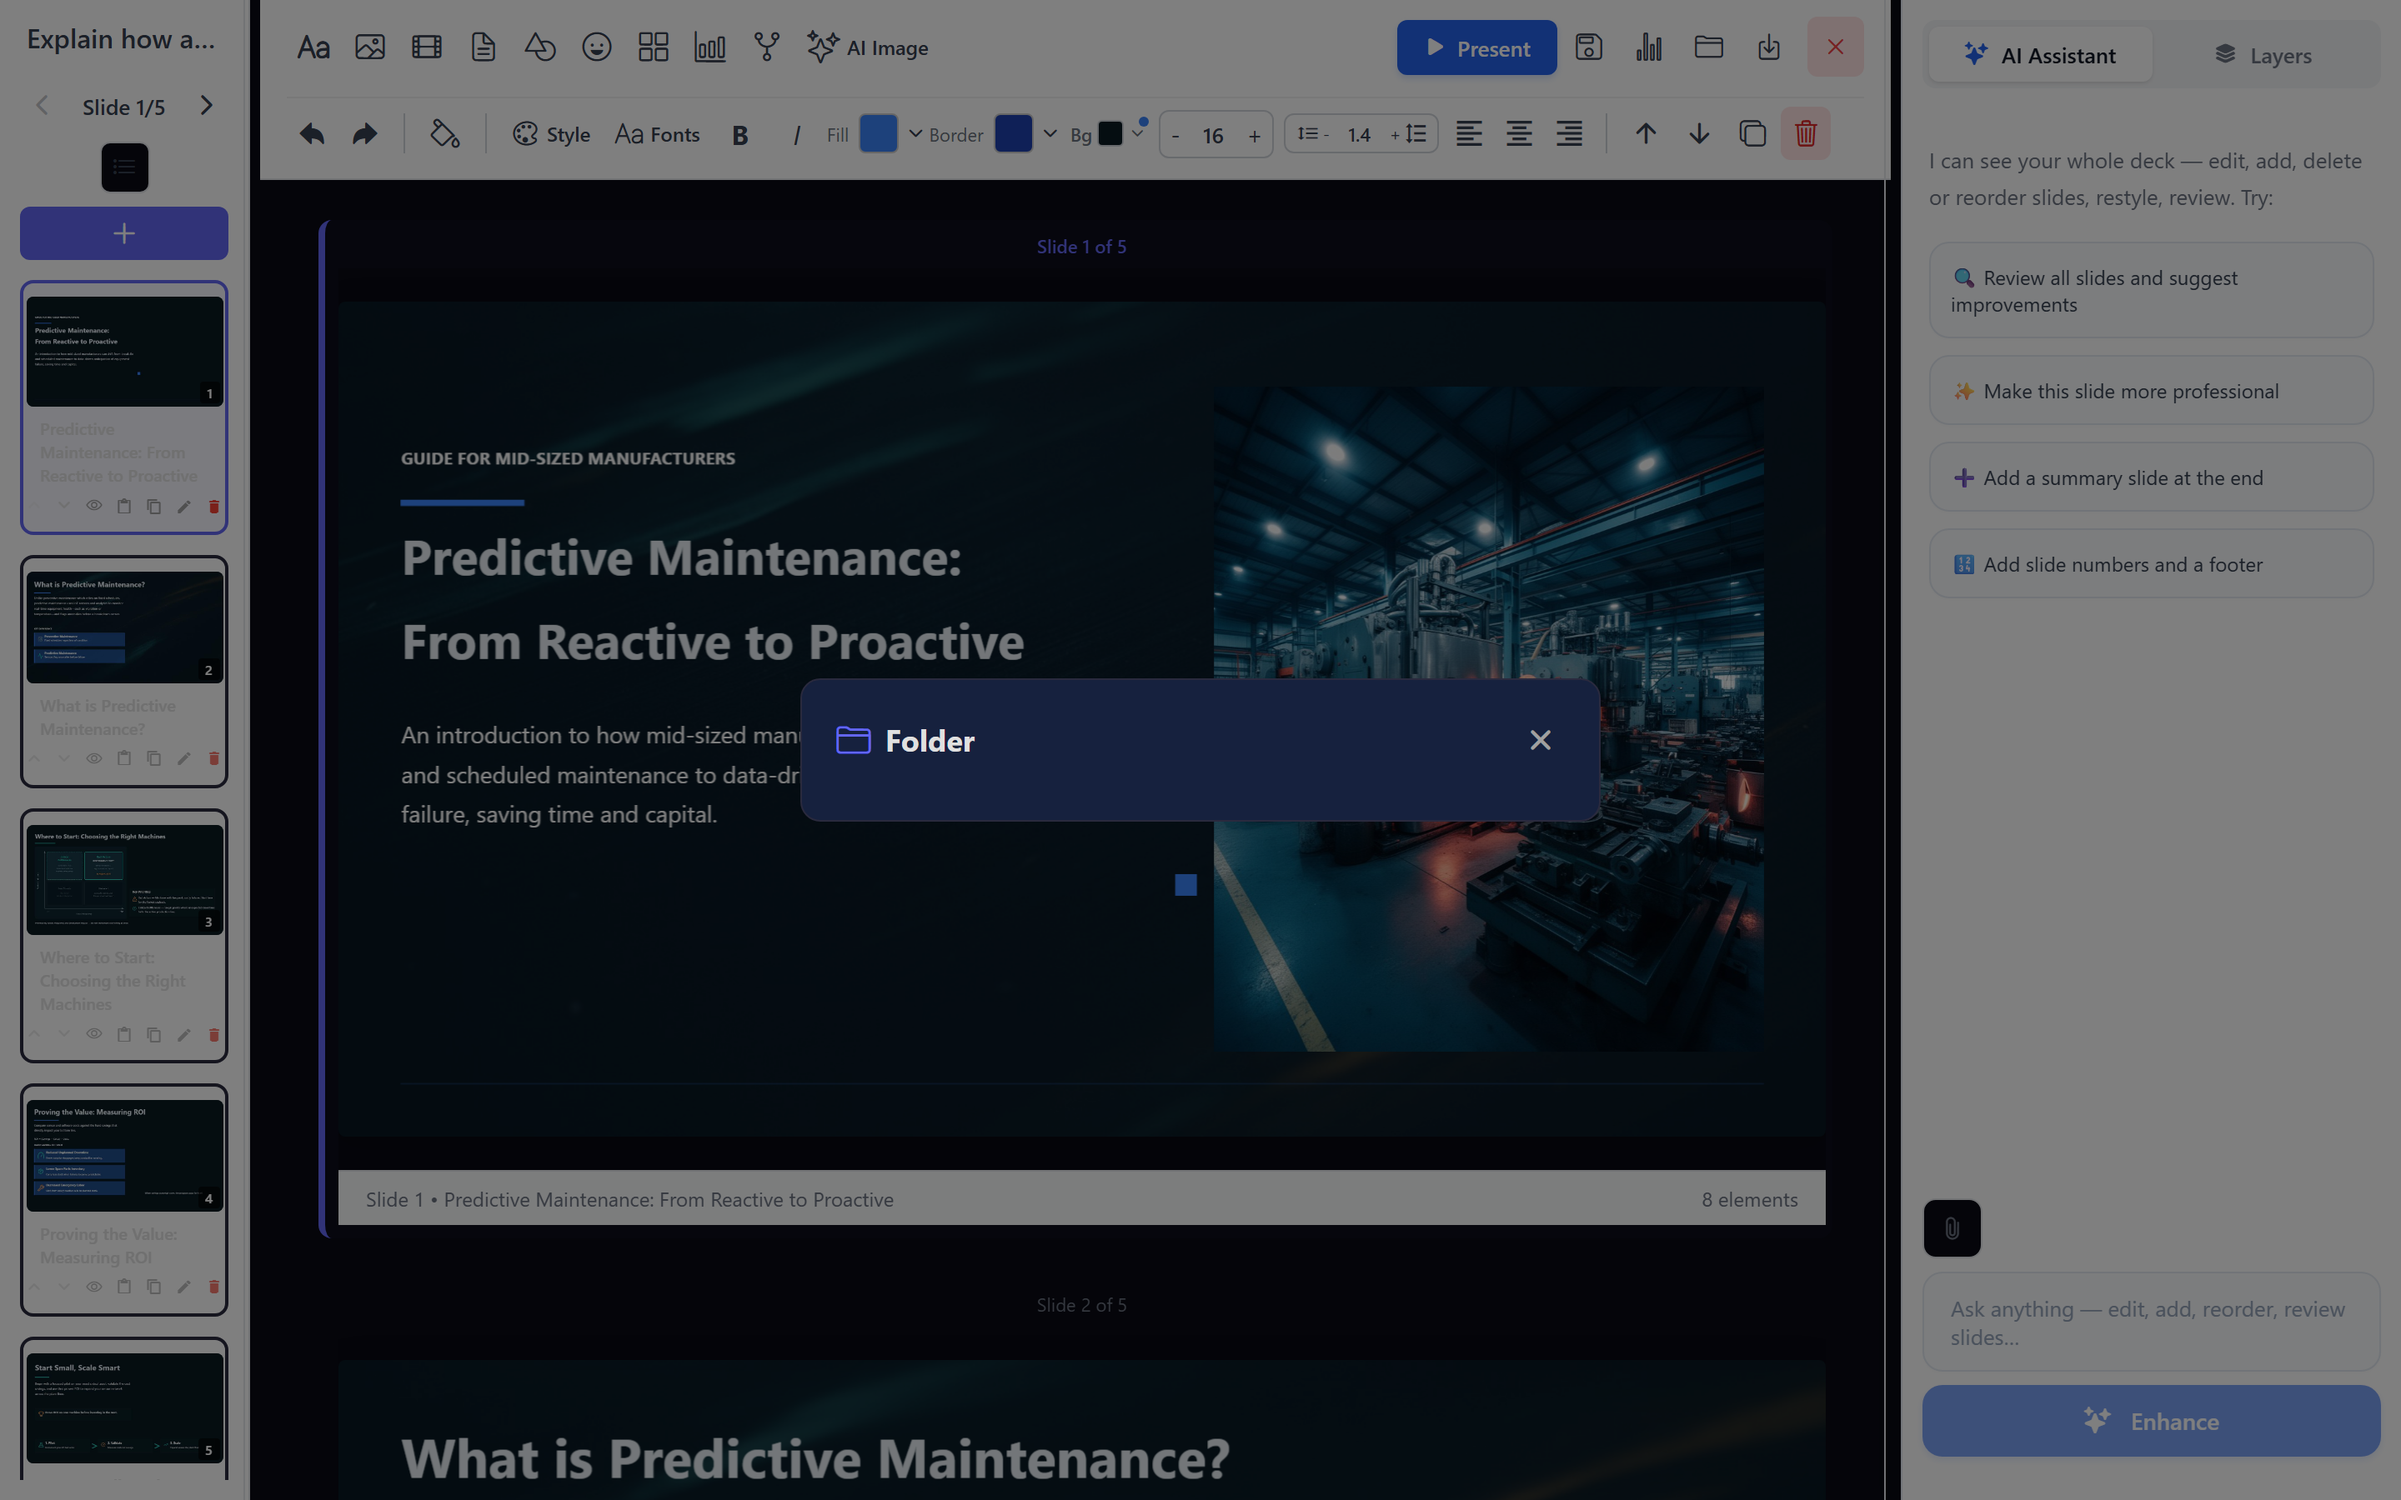
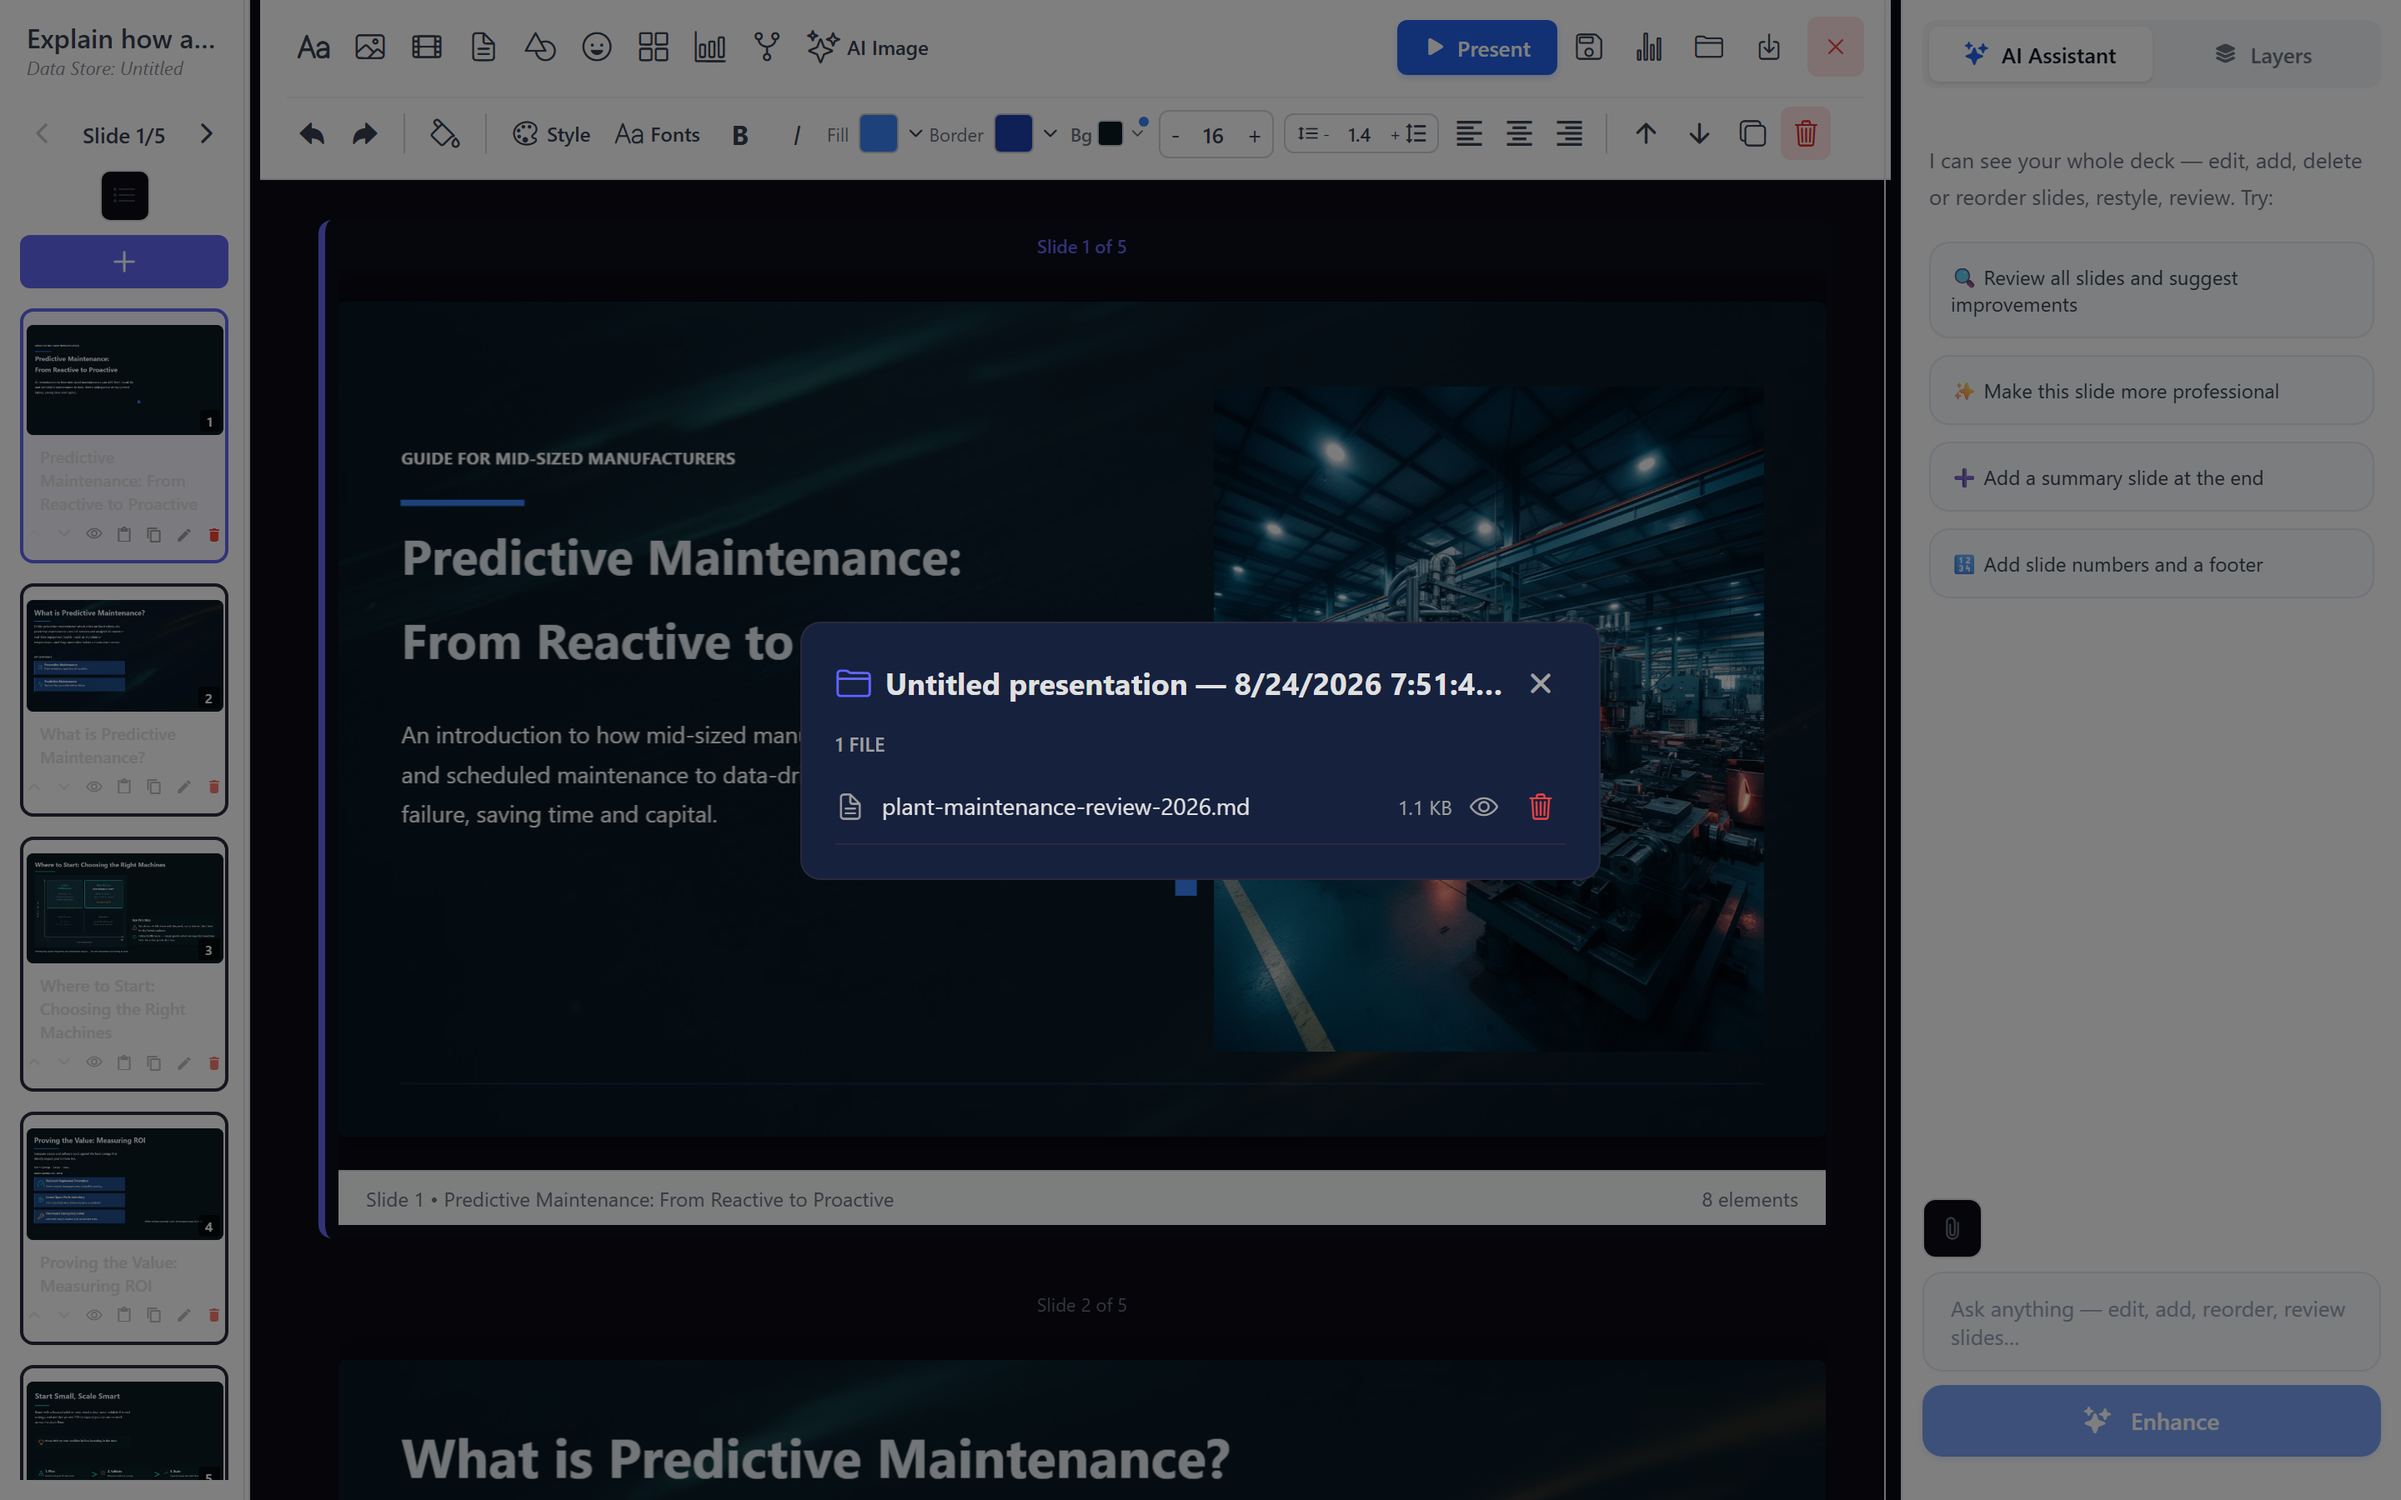
each deck keeps its own folder, and the folder panel lists and deletes its files
The folder-per-artifact feature was built; one field name broke the link and
made it look absent.

SavePresentationRequest declares `folder_id` (singular) and the save writes
`body.folder_id`. The composer sent `folder_ids` (plural). Pydantic dropped the
unknown field, folder_id defaulted to None, and every saved deck stored null --
detaching the deck from the folder holding its uploaded documents. The folder
panel then opened empty, and a reopened deck had nothing of yours to read.

Fixed at both ends: the server takes either spelling (singular wins), and the
composer sends folder_id alongside folder_ids. Also adds folder_id to the
presentation-list projection, which had omitted it.

Verified on the running stack, not inferred:
  * folder panel shows "1 FILE", plant-maintenance-review-2026.md, 1.1 KB,
    with view and delete controls
  * DELETE /api/v2/files/{id} -> 200 "deleted successfully from all services";
    Mongo row gone, Milvus vectors gone, the other document untouched

Also reverts a README hedge I should never have written. On finding this broken
I softened the claim -- "known gap, re-grounding an existing deck does not work
yet" -- instead of fixing the feature. The claim was correct; the code was not.
Documenting a bug in place of fixing it lowers the product to meet the defect.
The original line is restored and now true.

Two of my own checks were false passes worth recording: capture_vault.py
[…]

diff --git a/presentation_api.py b/presentation_api.py
@@ -1458,6 +1458,12 @@ class SavePresentationRequest(BaseModel):
     presentation_type: str = Field(default="informative", description="Presentation type")
     thumbnail: Optional[str] = Field(default=None, description="Thumbnail image (base64 or URL)")
     folder_id: Optional[str] = Field(default=None, description="Presentation's dedicated folder (one per artifact)")
+    # Accepted because the composer has always sent the plural. Pydantic
+    # dropped it as unknown, folder_id fell back to None, and every saved deck
+    # stored null -- detaching it from its own data store, so the folder view
+    # opened empty and a reopened deck had no documents to read. Taking either
+    # here means an un-updated client keeps working.
+    folder_ids: Optional[List[str]] = Field(default=None, description="Legacy plural form of folder_id; first entry wins")
 # ... (previous models)
 
 class BatchGenerateSlidesRequest(BaseModel):
@@ -5030,7 +5036,8 @@ async def save_presentation(http_request: Request, body: SavePresentationRequest
             "owner_id": _personal_sa_id,
             "org_id": _owner_org_id or None,
             "thumbnail": thumbnail_url,
-            "folder_id": body.folder_id,
+            # Either spelling; the singular wins when both are sent.
+            "folder_id": body.folder_id or (body.folder_ids[0] if body.folder_ids else None),
             "updated_at": datetime.utcnow()
         }
         
@@ -5278,6 +5285,12 @@ async def list_presentations(request: Request, team_id: str = None, all_workspac
                 "thumbnail": 1,
                 "user_id": 1,
                 "team_id": 1,
+                # The shell opens a deck straight from this row and takes its
+                # data store from folder_id. Leaving it out of the projection
+                # meant every deck opened detached: the folder view came up
+                # empty and a reopened deck had no documents to read, even when
+                # the value was sitting in Mongo.
+                "folder_id": 1,
                 "slide_count": {"$size": {"$ifNull": ["$slides", []]}}
             }}
         ]

diff --git a/scripts/capture_vault.py b/scripts/capture_vault.py
@@ -114,14 +114,22 @@ def main() -> int:
         page.wait_for_timeout(7000)
         shot(page, "32-vault", "the deck's data store: what it has read, and delete")
 
-        body = " ".join(page.inner_text("body").split())
-        for word in ("Delete", "delete"):
-            if word in body:
-                print(f"  delete control present ({word!r} on screen)")
-                break
-        else:
-            print("  [!!] no delete control visible in the data store",
-                  file=sys.stderr)
+        # Look inside the MODAL, not the whole page. Scanning document.body for
+        # "delete" matched the AI panel's own copy ("edit, add, delete or
+        # reorder slides") and reported a delete control on a modal that was
+        # empty -- a false pass that read exactly like a real one.
+        found = page.evaluate("""() => {
+          const txt = [...document.querySelectorAll('*')]
+            .filter(e => e.children.length === 0)
+            .map(e => (e.textContent||'').trim());
+          const files  = txt.filter(t => /\.(md|pdf|docx?|xlsx?|csv|txt|pptx?)$/i.test(t));
+          const remove = txt.filter(t => /^(delete|remove)$/i.test(t));
+          return {files, remove: remove.length};
+        }""")
+        print(f"  files listed in the panel: {found['files'] or 'NONE'}")
+        print(f"  delete controls: {found['remove']}")
+        if not found["files"]:
+            print("  [!!] the data store lists no files", file=sys.stderr)
         br.close()
     return 0
 

diff --git a/README.md b/README.md
@@ -35,7 +35,7 @@ attached — then editable element by element, or by asking.</i></p>
 
 |  |  |
 |---|---|
-| **You give it the project, not a prompt** | Every tool takes an attachment. This takes your **project's material** — the spec, the spreadsheets, last quarter's report, the standards you work to — and keeps it as a knowledge store for that deck. The outline and every slide are written from it, so the system knows what you are building rather than guessing from one paragraph. → [Where your documents go in](#where-your-documents-go-in) |
+| **You give it the project, not a prompt** | Every tool takes an attachment. This takes your **project's material** — the spec, the spreadsheets, last quarter's report, the standards you work to — and keeps it as a knowledge store for that deck. The outline, every slide and every later edit are written from it, so the system knows what you are building rather than guessing from one paragraph. → [Where your documents go in](#where-your-documents-go-in) |
 | **The numbers are computed, not written** | For a spreadsheet the model is asked for a small Python script, which runs in a sandbox against your actual file; the **result** goes on the slide. A model asked to "sum column D" gives a confident wrong number. → [How a deck gets made](#how-a-deck-gets-made) |
 | **You change it by asking** | Reopen a deck and say what you want in ordinary words. It tells you what it worked out from your content before it writes anything. → [Come back to it](#come-back-to-it-and-change-it-by-asking) |
 | **It runs on your infrastructure** | Your Milvus, your object storage, your model endpoint. Point it at a local vLLM and nothing leaves your network. → [Why self-host this](#why-self-host-this) |
@@ -91,14 +91,7 @@ Attaching a file is not the point — every tool does that, for one prompt, and
 forgets it. The point is that your project's material becomes a **standing
 knowledge store for that deck**: the spec, the spreadsheets, the standards you
 work to, last quarter's numbers. The outline is built from it, every slide is
-written from it.
-
-> **Known gap (being fixed):** a saved deck currently loses the link to its
-> data store — the save sends `folder_ids` while the server persists
-> `folder_id`, so it writes null. The documents are still in your Milvus,
-> but a deck reopened later cannot see them, and the toolbar's data-store
-> view opens empty. Generation from attached files works; re-grounding an
-> existing deck does not, yet.
+written from it, and the edit you ask for in three weeks still reads it.
 
 That is what "grounded" has to mean for corporate work. A board pack, a credit
 memo or an incident report is not a writing task — it is a summarising task
